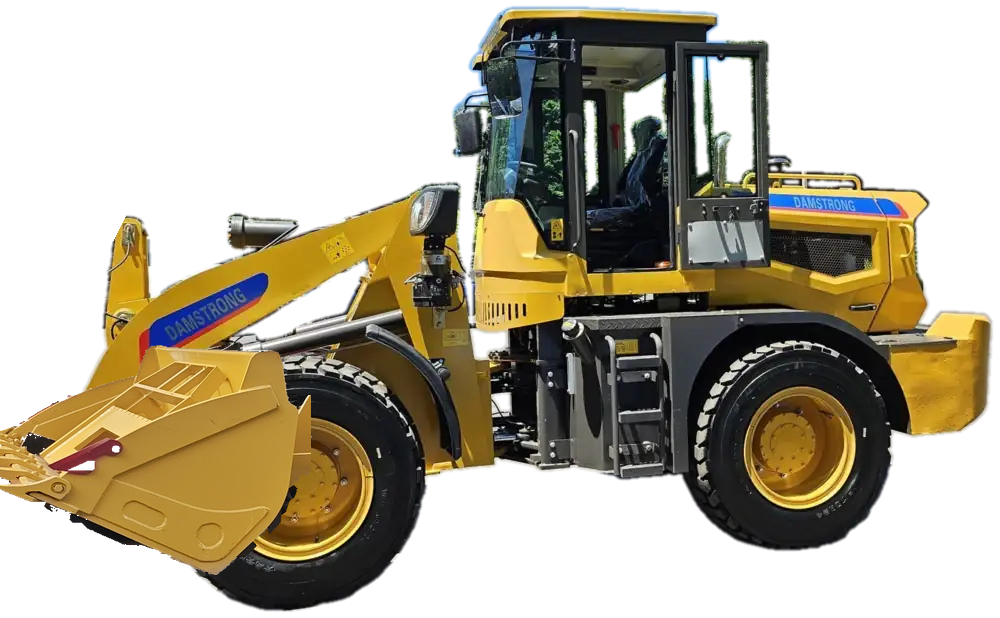
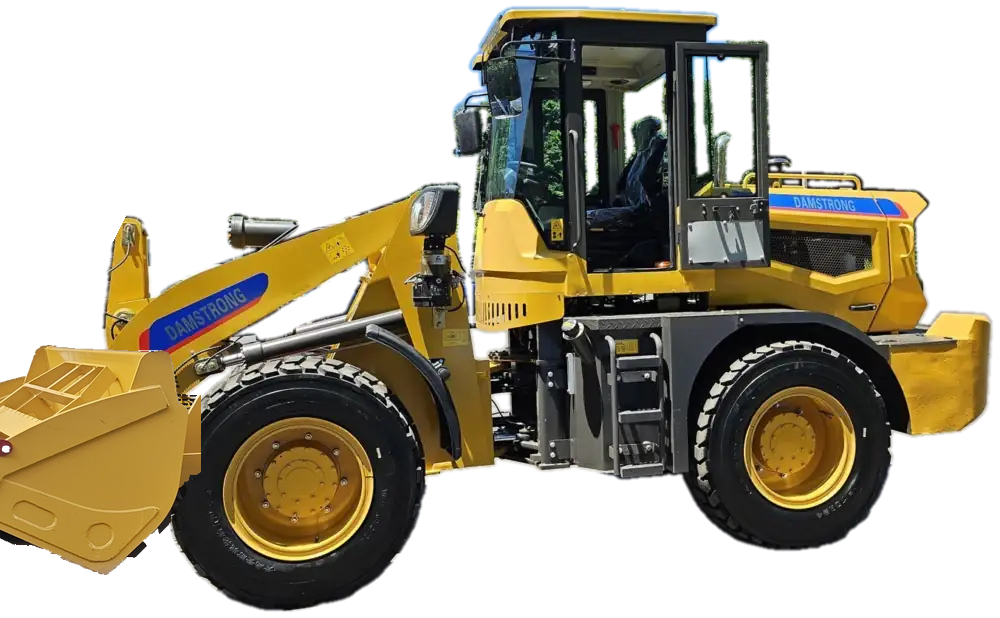
Move the bucket forward of the boom tip.
The scoop keeps its triangle and now hangs in front of the arms, with the hinge still meeting the boom.

Changed region(s): [[0.0, 0.5534, 0.31, 0.9531]]

diff --git a/bernie/loader/assembly.test.js b/bernie/loader/assembly.test.js
@@ -59,11 +59,13 @@ var script = [
   "for name, x, y, pw, ph in parts:",
   "    piece = np.array(Image.open(os.path.join(img, name + '.webp')).convert('RGBA')).astype(np.float32)",
   "    assert piece.shape[1] == pw and piece.shape[0] == ph, name",
-  "    assert 0 <= x and x + pw <= w and 0 <= y and y + ph <= h, name",
+  "    x0, y0 = max(0, x), max(0, y)",
+  "    x1, y1 = min(w, x + pw), min(h, y + ph)",
+  "    assert x1 > x0 and y1 > y0, name",
   "    src_a = np.zeros((h, w), np.float32)",
   "    src_rgb = np.zeros((h, w, 3), np.float32)",
-  "    src_a[y:y+ph, x:x+pw] = piece[:,:,3] / 255.0",
-  "    src_rgb[y:y+ph, x:x+pw] = piece[:,:,:3]",
+  "    src_a[y0:y1, x0:x1] = piece[y0-y:y1-y, x0-x:x1-x, 3] / 255.0",
+  "    src_rgb[y0:y1, x0:x1] = piece[y0-y:y1-y, x0-x:x1-x, :3]",
   "    dst_a = recon[:,:,3] / 255.0",
   "    out_a = src_a + dst_a * (1 - src_a)",
   "    for c in range(3):",

diff --git a/bernie/loader/loader.js b/bernie/loader/loader.js
@@ -12,7 +12,7 @@
     { id: "engine", name: "Engine", src: "img/engine.webp", x: 154, y: 39, w: 840, h: 442, group: "body" },
     { id: "cab", name: "Cab", src: "img/cab.webp", x: 451, y: 5, w: 310, h: 251, group: "body" },
     { id: "arms", name: "Lift arms", src: "img/arms.webp", x: 72, y: 170, w: 474, h: 279, group: "arms" },
-    { id: "bucket", name: "Bucket", src: "img/bucket.webp", x: 0, y: 345, w: 311, h: 230, group: "bucket" }
+    { id: "bucket", name: "Bucket", src: "img/bucket.webp", x: -110, y: 345, w: 311, h: 230, group: "bucket" }
   ];
   /* Boom pin on the chassis. The bucket sits left and below it, so a positive
      turn lifts the arms and the bucket. */

diff --git a/bernie/bernie.css b/bernie/bernie.css
@@ -1214,6 +1214,14 @@ body.is-driving .scene {
   z-index: 2;
 }
 
+/* The scoop hangs forward of the side photo, so leave room on the left. */
+.loader-page .art .board {
+  width: 86%;
+  margin-left: auto;
+  margin-right: 2%;
+  overflow: visible;
+}
+
 .loader-page .pile {
   width: clamp(156px, 36vw, 250px);
   height: auto;
